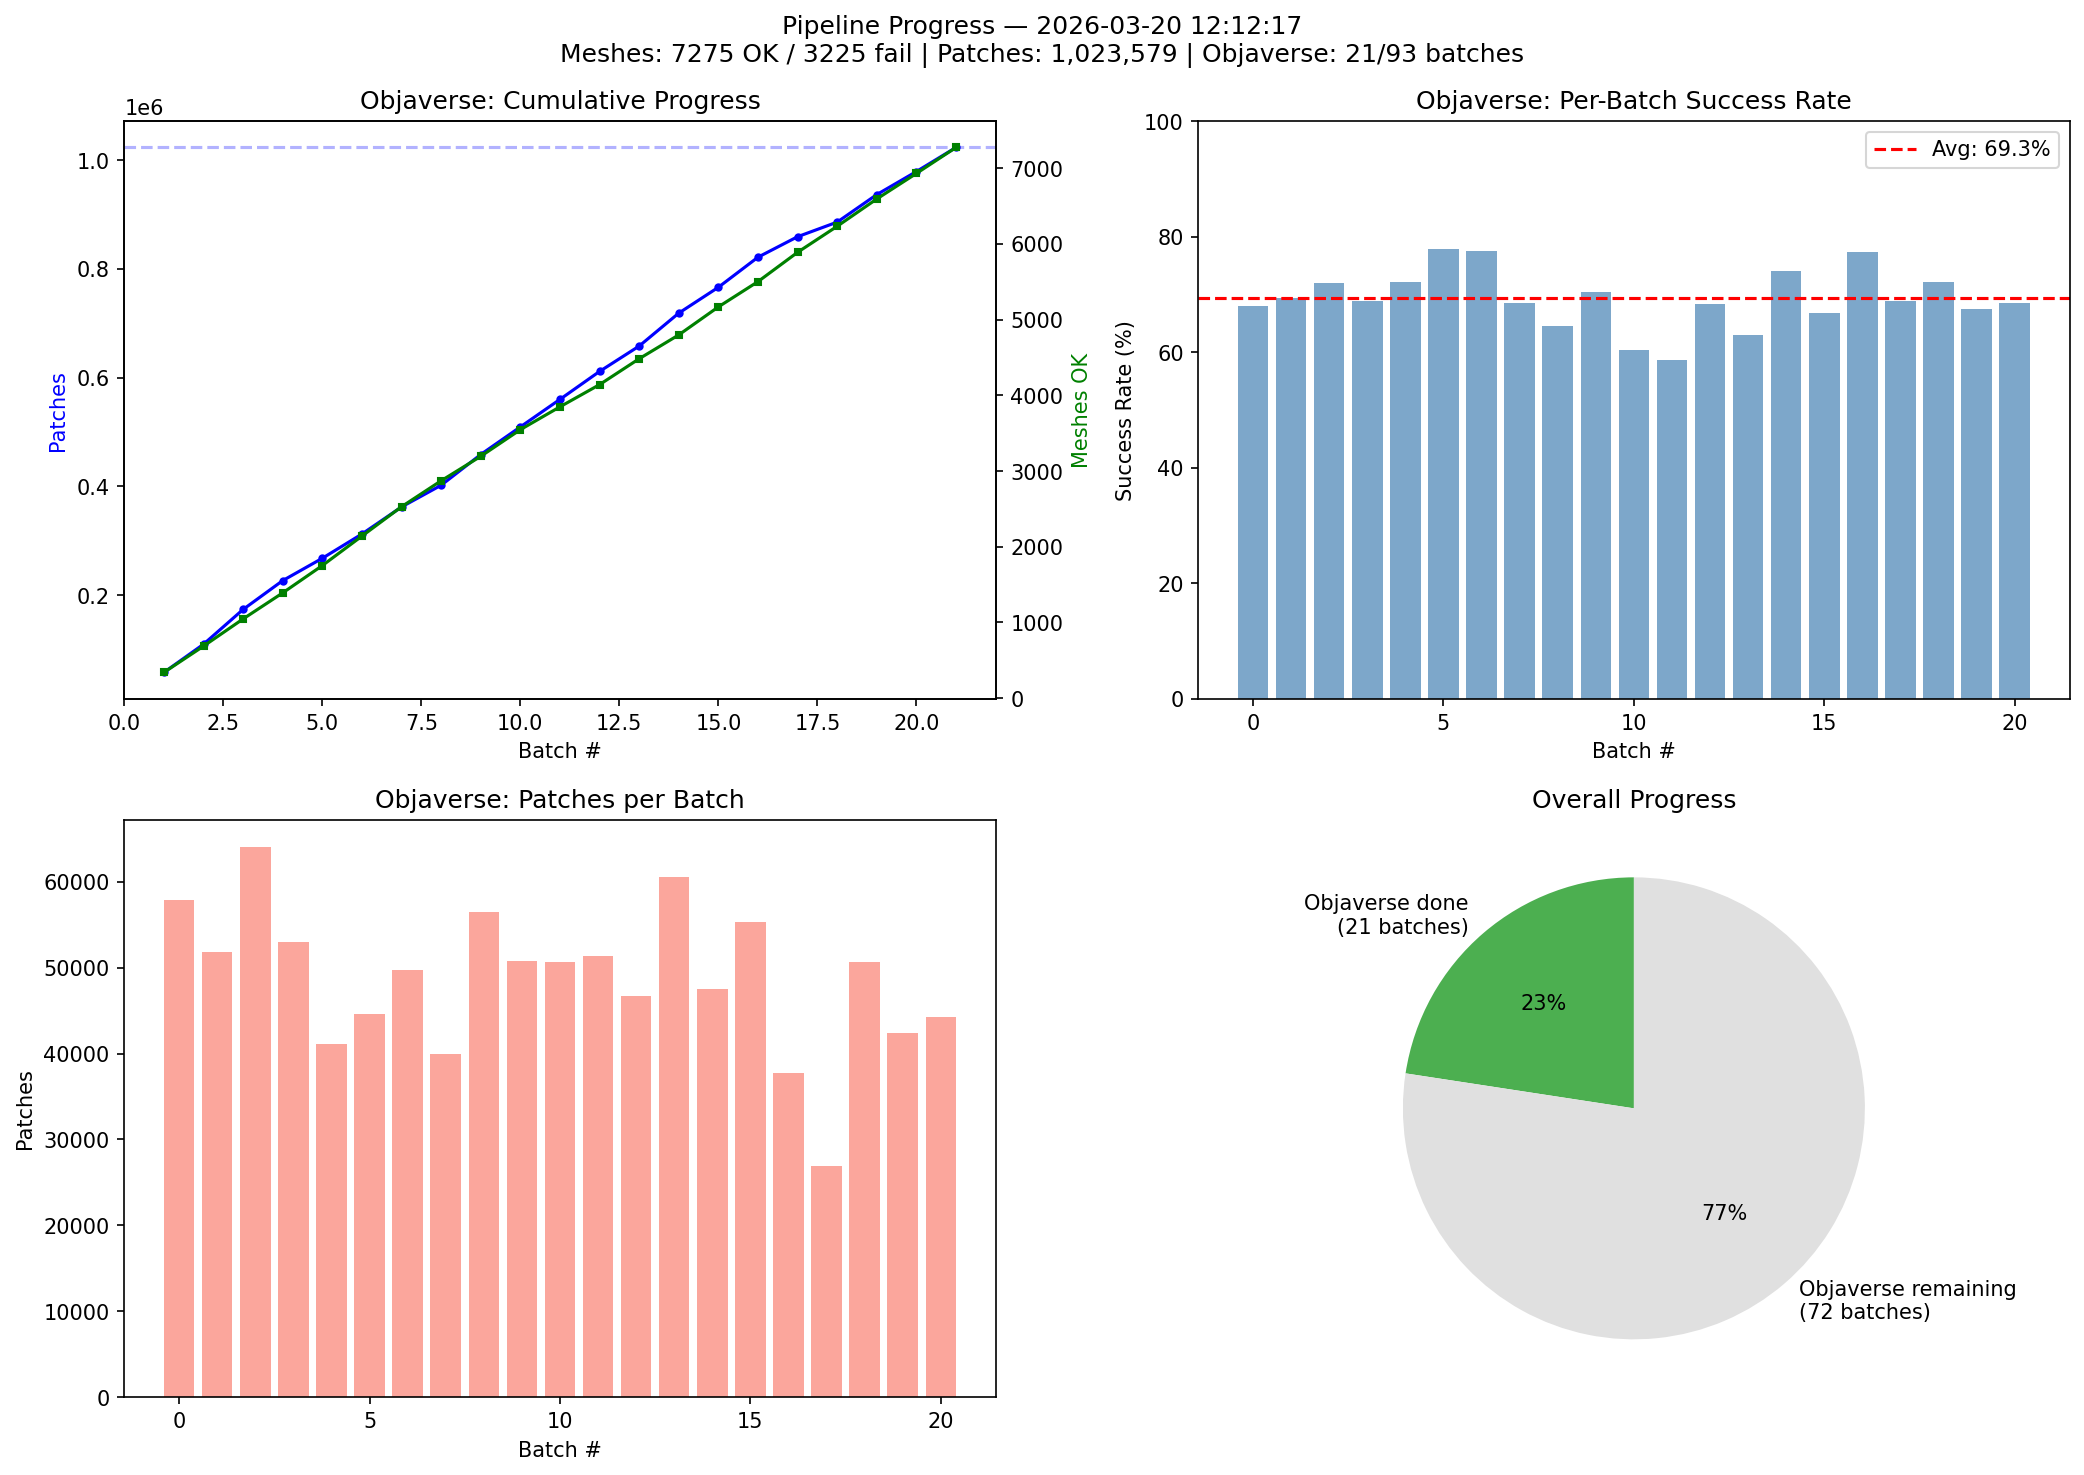
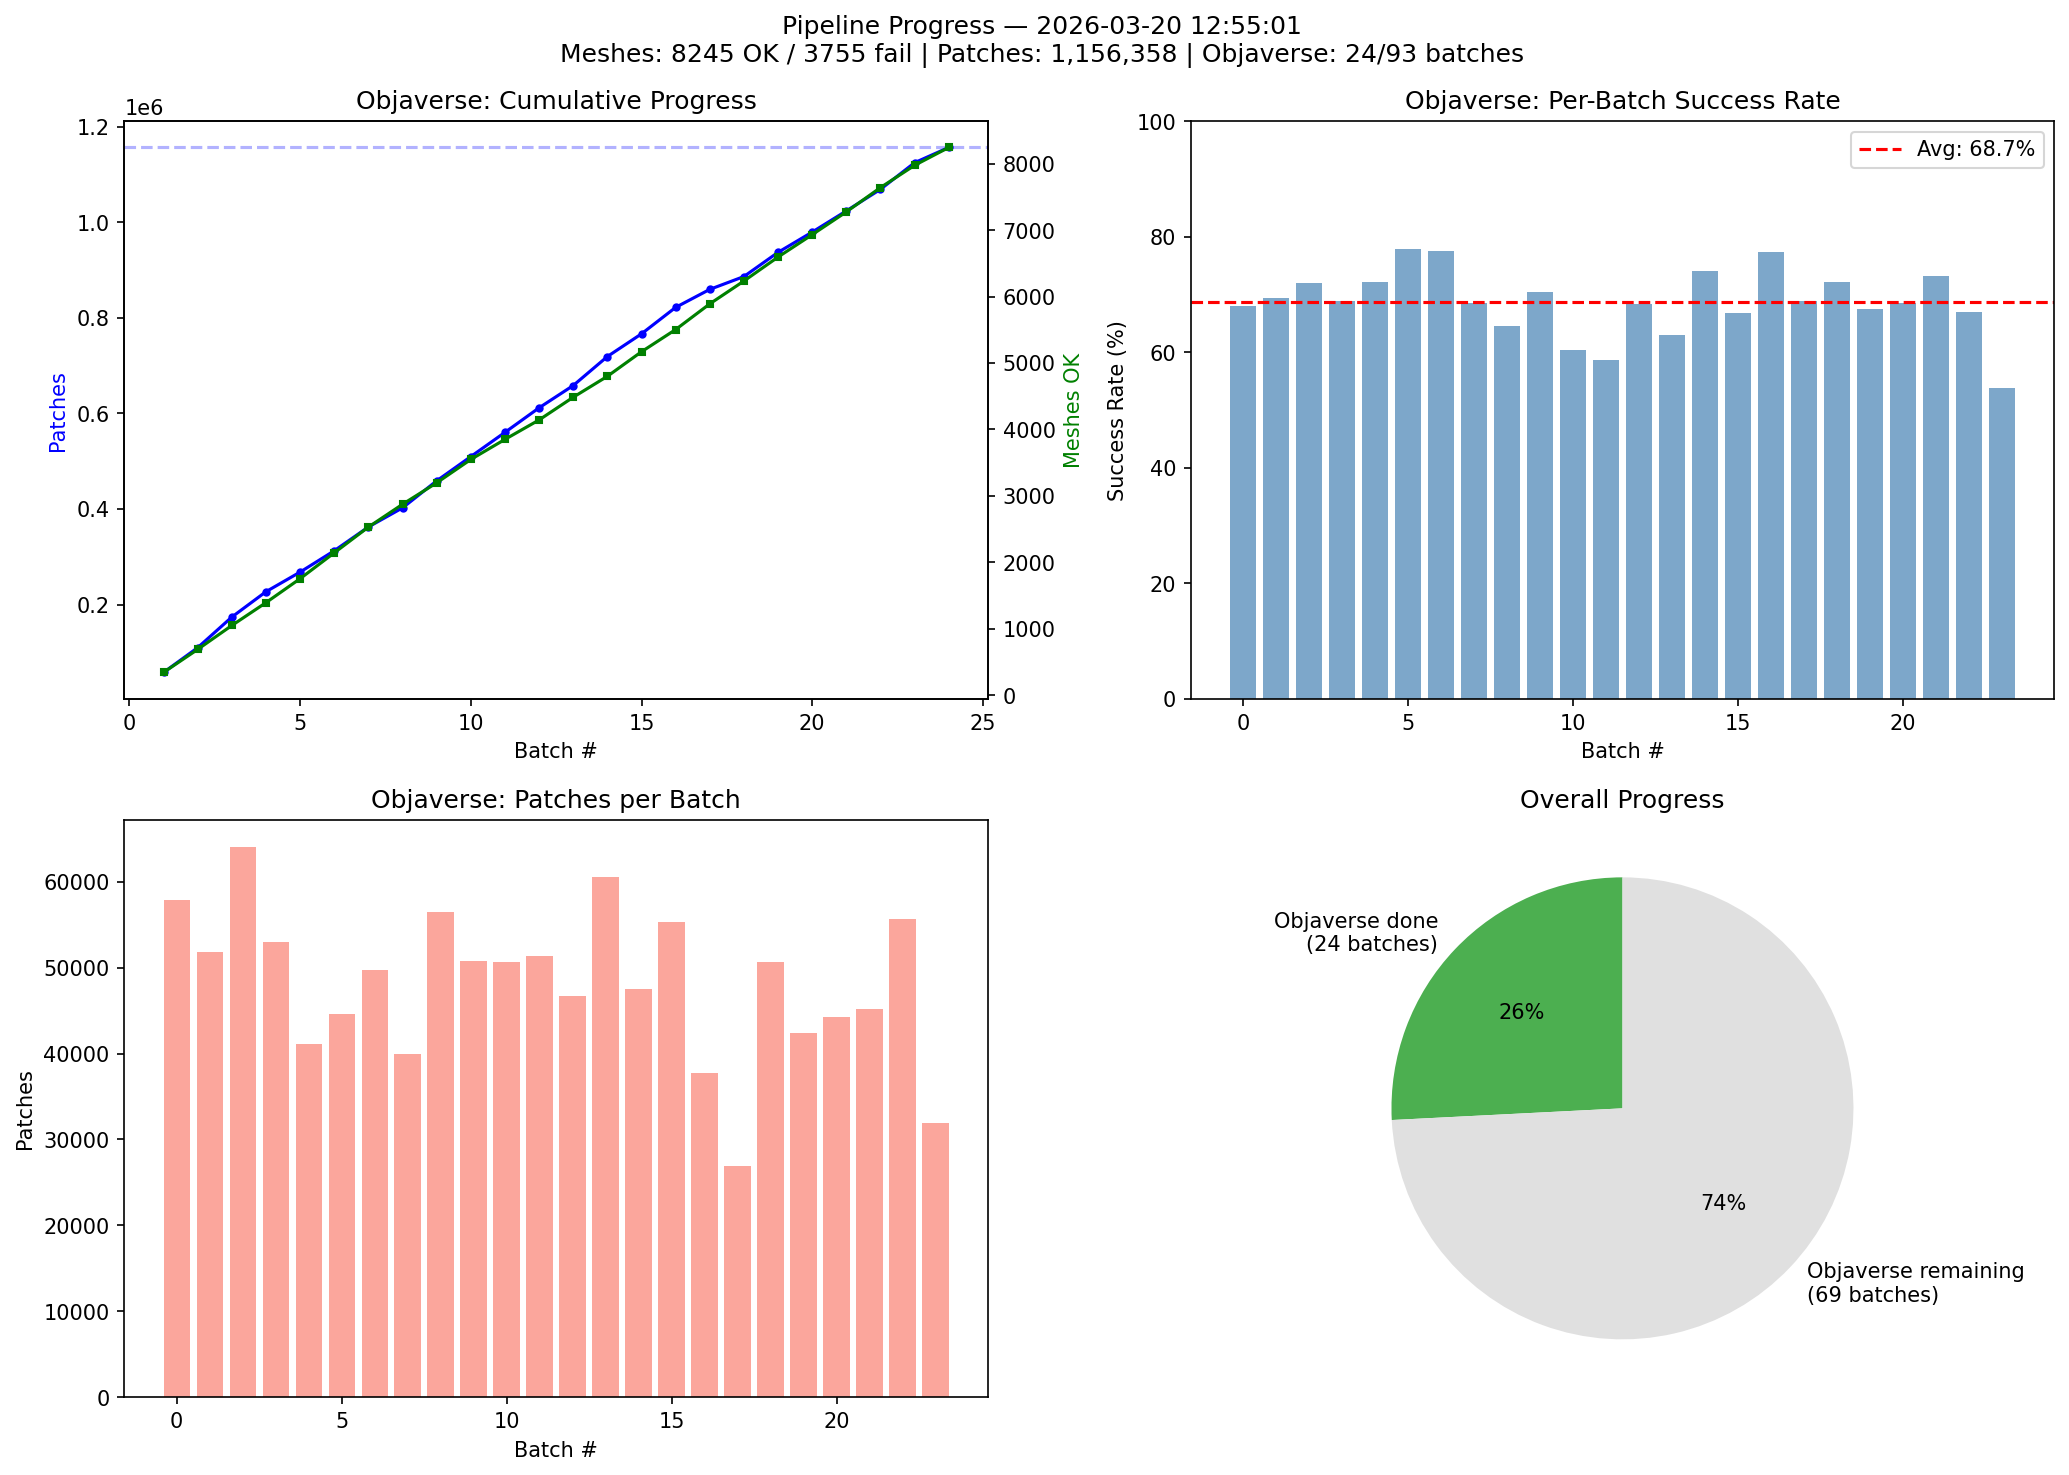
docs: add dataset pipeline monitoring rules to RULE.md and CLAUDE.md
- Add disk alert threshold (80%) and cleanup instructions
- Add monitoring scripts documentation
- Add rules for immediate commit after new results
- Add Timeline update requirements for phase completion
- Refresh pipeline monitoring output

diff --git a/RULE.md b/RULE.md
@@ -60,3 +60,78 @@ nvidia-smi     # GPU
 - 训练脚本必须支持 `--resume`，OOM 后从上一个 checkpoint 继续，不得从头重跑
 - 预处理脚本必须支持断点续跑（跳过已处理文件）
 - OOM 时优先降低 `--batch_size`
+
+## 数据集 Pipeline 监控 — 重要
+
+### 监控脚本
+
+| 脚本 | 功能 | 触发频率 |
+|------|------|----------|
+| `scripts/disk_alert.py` | 磁盘使用率 ≥ 80% 时发警告 | 每 15 分钟 |
+| `scripts/monitor_pipeline.py` | 生成进度报告到 `results/dataset-pipeline/` | 每 15 分钟 |
+| `scripts/monitor_daemon.sh` | 后台守护进程运行上述两个脚本 | 持续运行 |
+
+### 启动监控
+
+```bash
+export HF_TOKEN=your_token_here
+nohup /workspace/MeshLex-Research/scripts/monitor_daemon.sh > /tmp/monitor_daemon.log 2>&1 &
+```
+
+### 监控产出目录
+
+所有监控产出保存在 `results/dataset-pipeline/`：
+- `REPORT.md` — 人类可读的进度报告
+- `progress.png` — 进度可视化
+- `summary.json` — 机器可读的统计
+- `sample_*.png` — 随机采样 mesh 可视化
+
+### 磁盘预警响应
+
+当监控脚本发出磁盘 ≥ 80% 警告时，立即执行：
+
+```bash
+# 检查磁盘占用
+df -h /
+du -sh /home/cc/.objaverse 2>/dev/null
+
+# 清理旧的 Objaverse GLB 缓存（保留 30 分钟内的）
+python3 - <<'PY'
+from pathlib import Path
+import time
+cache_dir = Path.home() / ".objaverse" / "hf-objaverse-v1" / "glbs"
+if cache_dir.exists():
+    now = time.time()
+    deleted = 0
+    freed = 0
+    for f in cache_dir.rglob("*.glb"):
+        if now - f.stat().st_mtime > 1800:  # 30 min
+            freed += f.stat().st_size
+            f.unlink()
+            deleted += 1
+    print(f"Deleted {deleted} files, freed {freed/1e9:.1f} GB")
+PY
+```
+
+### Batch 完成后的记录
+
+每当一个 batch 处理完成后，必须：
+1. 检查 `results/dataset-pipeline/` 的监控产出是否更新
+2. 确认 REPORT.md 中的进度信息准确
+3. 将监控产出 commit 并 push 到 GitHub
+
+### 产出立即提交
+
+**严格规则**：一旦有新产出（监控报告、可视化、日志等），立即 commit and push：
+
+```bash
+git add results/dataset-pipeline/
+git commit -m "chore: update pipeline monitoring after batch_XXX"
+git push
+```
+
+### 任务完成记录
+
+当一个主要 phase 完成后（如 Objaverse phase），必须：
+1. 在 `README.md` 的 Timeline 中添加当日条目
+2. 格式：`- **Day N (YYYY-MM-DD)**: 完成内容摘要`

diff --git a/CLAUDE.md b/CLAUDE.md
@@ -310,3 +310,67 @@ nvidia-smi
       continue  # 已处理，跳过
   ```
 - 遇到 OOM 错误时，**优先降低 `--batch_size`**，不要直接加内存
+
+## 数据集 Pipeline 监控规范 — 重要
+
+### 监控系统
+
+项目配置了持久化监控系统，用于监督数据集处理 pipeline：
+
+| 脚本 | 功能 | 日志 |
+|------|------|------|
+| `scripts/disk_alert.py` | 磁盘 ≥ 80% 时发警告 | `/tmp/disk_alert.log` |
+| `scripts/monitor_pipeline.py` | 生成进度报告 | `/tmp/pipeline_monitor.log` |
+| `scripts/monitor_daemon.sh` | 后台守护进程 | `/tmp/monitor_daemon.log` |
+
+### 启动监控
+
+```bash
+export HF_TOKEN=your_token_here
+nohup /workspace/MeshLex-Research/scripts/monitor_daemon.sh > /tmp/monitor_daemon.log 2>&1 &
+```
+
+### 监控产出目录
+
+`results/dataset-pipeline/` 是用户监督 pipeline 运行状态的窗口，必须保持人类可读：
+
+- `REPORT.md` — 进度报告（必读）
+- `progress.png` — 进度可视化
+- `summary.json` — 统计数据
+- `sample_*.png` — 随机 mesh 可视化
+
+### 磁盘预警响应
+
+当磁盘使用率 ≥ 80% 时，立即清理 Objaverse GLB 缓存：
+
+```bash
+# 清理 >30 分钟的旧 GLB
+python3 - <<'PY'
+from pathlib import Path
+import time
+cache_dir = Path.home() / ".objaverse" / "hf-objaverse-v1" / "glbs"
+if cache_dir.exists():
+    now = time.time()
+    for f in cache_dir.rglob("*.glb"):
+        if now - f.stat().st_mtime > 1800:
+            f.unlink()
+PY
+```
+
+### 新产出立即提交
+
+**强制规则**：一旦 `results/dataset-pipeline/` 有新产出，立即 commit and push：
+
+```bash
+git add results/dataset-pipeline/
+git commit -m "chore: update pipeline monitoring"
+git push
+```
+
+### Phase 完成后更新 Timeline
+
+当一个主要 phase 完成后，在 `README.md` Timeline 中添加条目：
+
+```
+- **Day N (YYYY-MM-DD)**: 完成内容摘要
+```

diff --git a/results/dataset-pipeline/REPORT.md b/results/dataset-pipeline/REPORT.md
@@ -1,17 +1,17 @@
 # Dataset Pipeline Progress Report
 
-**Generated:** 2026-03-20 12:12:17
+**Generated:** 2026-03-20 12:55:01
 
 ## Overall
-- Total meshes processed: 7275 OK / 3225 fail
-- Total patches: 1,023,579
+- Total meshes processed: 8245 OK / 3755 fail
+- Total patches: 1,156,358
 
 ## Objaverse-LVIS (Phase 1)
-- Batches: 21 / 93 completed
-- Meshes: 7275 OK / 3225 fail
-- Success rate: 69.3%
-- Patches: 1,023,579
-- Avg patches/mesh: 140.7
+- Batches: 24 / 93 completed
+- Meshes: 8245 OK / 3755 fail
+- Success rate: 68.7%
+- Patches: 1,156,358
+- Avg patches/mesh: 140.2
 
 ## ShapeNet (Phase 2)
 - Batches: 0 completed
